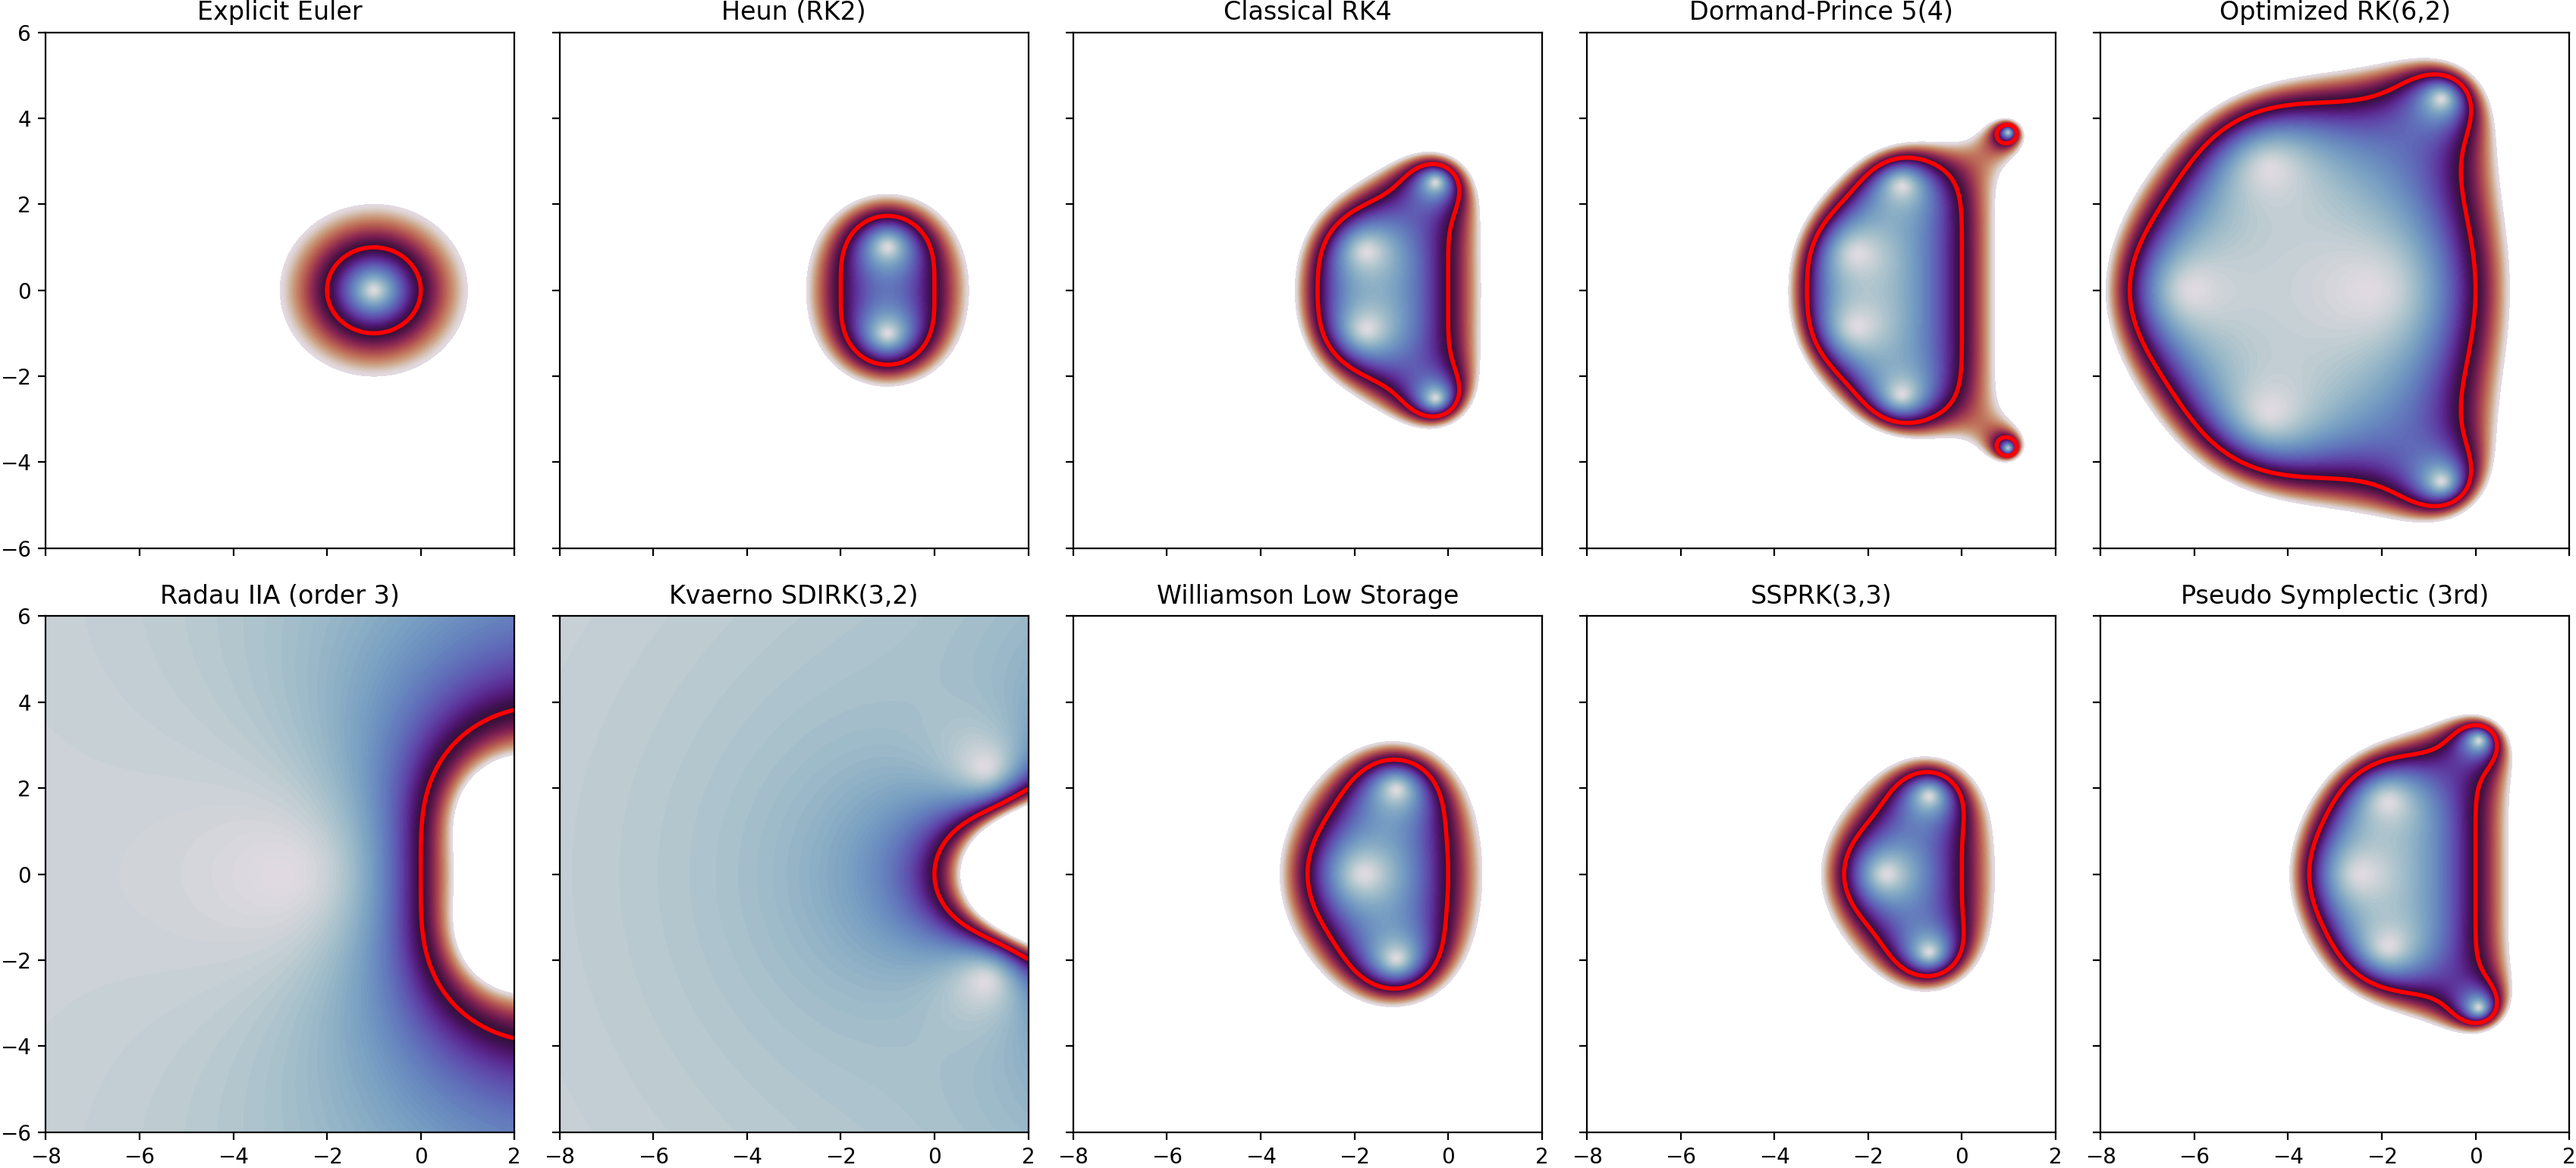
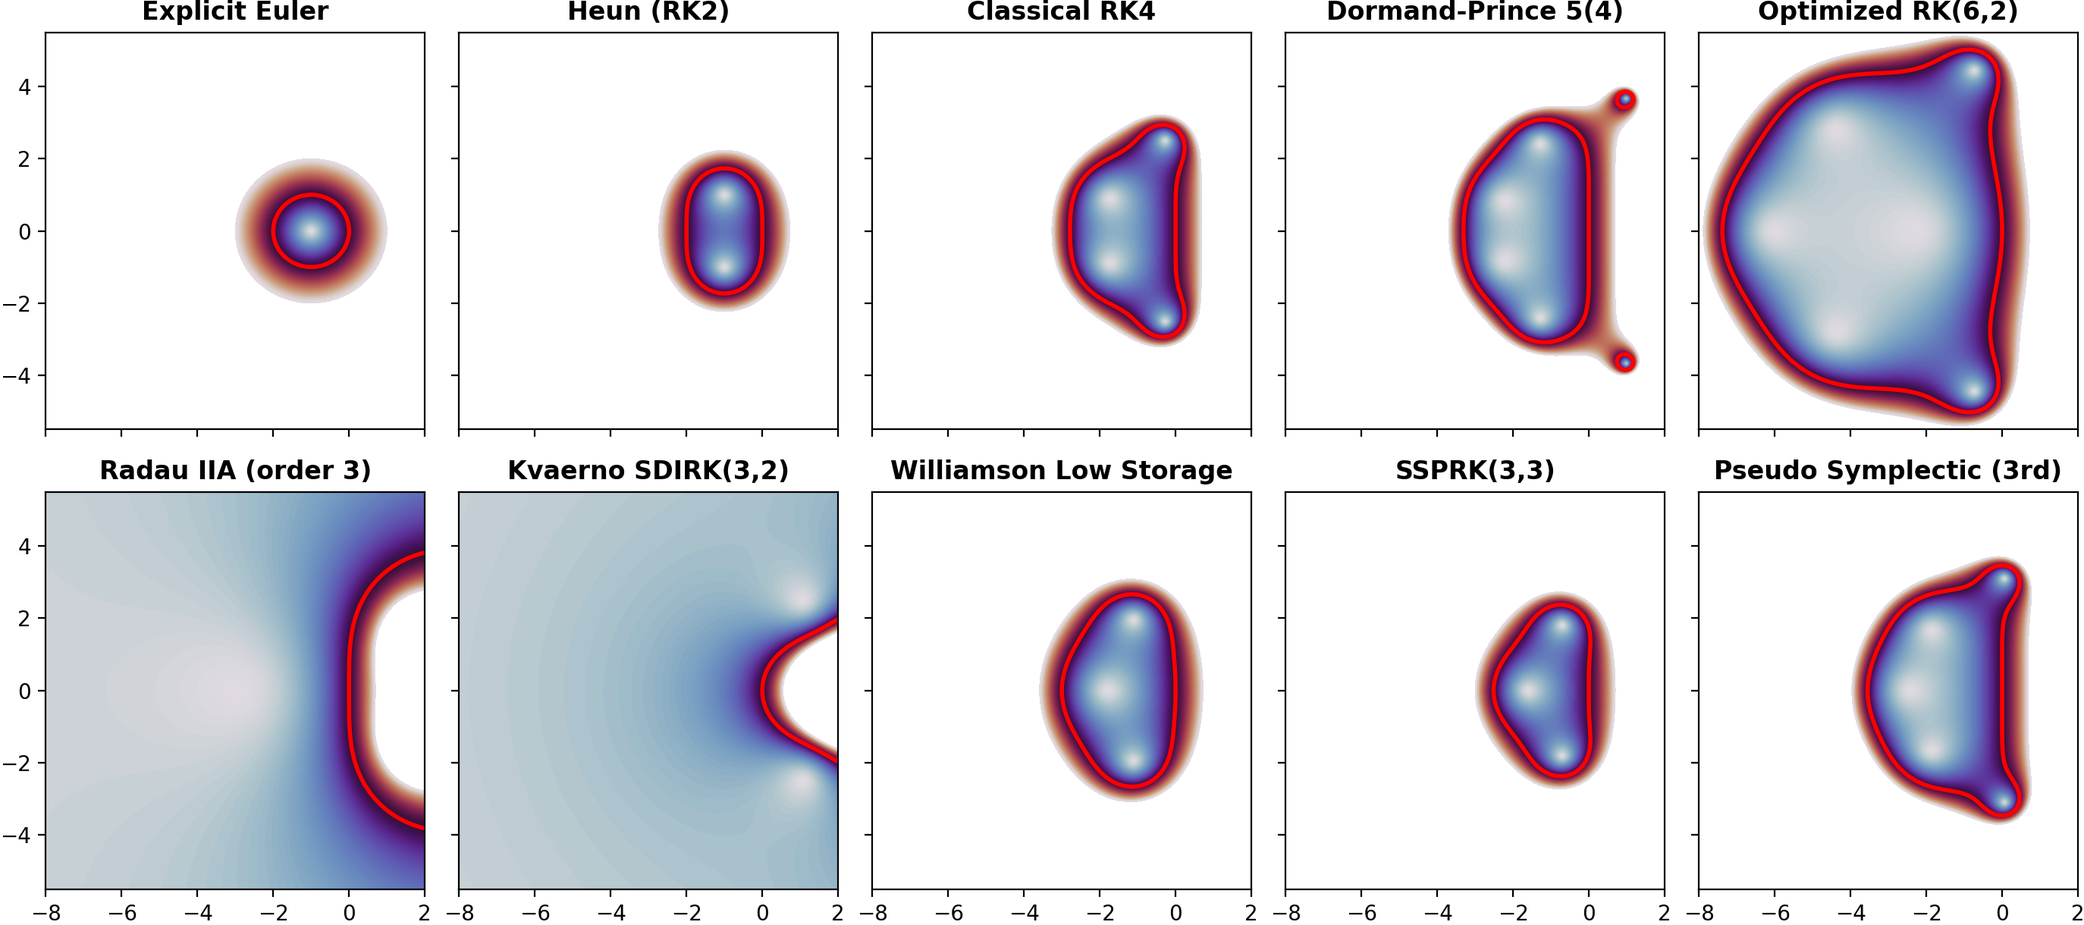
update

diff --git a/src/rk_stability_explorer/analysis.py b/src/rk_stability_explorer/analysis.py
@@ -21,21 +21,10 @@ def compile_method(method):
         "name": method["name"]
     }
     
-   # if method["c"] == method["c"] is None:
-   #     A = method["A"]
-   #     method["c"] = np.array([sum(row) for row in A])
-    #else:
-    #    method["c"] = _parse_vector(c_data, params)
-
-    #return {
-    #    "A": np.array(method["A"], dtype=float),
-    #    "b": np.array(method["b"], dtype=float),
-    #    "c": np.array(method["c"], dtype=float),
-    #    "name": method["name"]
-    #}
+   
 
 def compute_results(methods, X, Y, Z):
-    # 1. загрузить методы (если строки)
+    # 1. load methods (strings)
     loaded_methods = []
 
     for m in methods:
@@ -44,7 +33,7 @@ def compute_results(methods, X, Y, Z):
         m = compile_method(m)   # make it float
         loaded_methods.append(m)
 
-    # 2. считать результаты
+    # 2. compute results
     results = []
 
     for method in loaded_methods:

diff --git a/src/rk_stability_explorer/rkplot_multiple.py b/src/rk_stability_explorer/rkplot_multiple.py
@@ -21,7 +21,7 @@ def rkplot_multiple(method_results, cols=2, cmap = "twilight"):
     fig, axes = plt.subplots(
         rows,
         cols,
-        figsize=(4.0 * cols, 4.2 * rows),
+        figsize=(2.8 * cols, 3.2*rows),
         sharex=True,
         sharey=True
     )
@@ -34,7 +34,7 @@ def rkplot_multiple(method_results, cols=2, cmap = "twilight"):
 
         ax.contourf(X, Y, np.abs(R), levels=levels, cmap=cmap)
         ax.contour(X, Y, np.abs(R), levels=[1], colors="red", linewidths=2)
-        ax.set_title(title, fontsize=16,fontweight="bold")
+        ax.set_title(title, fontsize=12,fontweight="bold")
 
     for ax in axes[n:]:
         ax.remove()

diff --git a/examples/demo.py b/examples/demo.py
@@ -20,5 +20,5 @@ Z = X + 1j * Y
 results = rk.compute_results(methods, X, Y, Z)
 fig = rk.rkplot_multiple(results, cols=5, cmap = "twilight")
 
-fig.savefig("assets/DemoRK.png",  dpi=200, bbox_inches = 'tight', pad_inches = 0)
+fig.savefig("DemoRK.png",  dpi=200, bbox_inches = 'tight', pad_inches = 0)
 plt.show()
